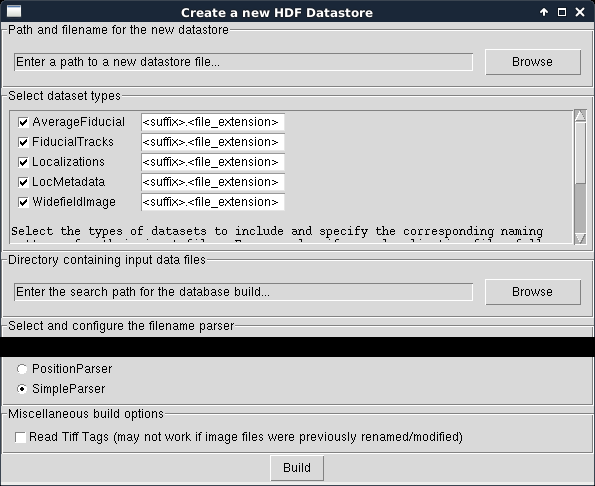
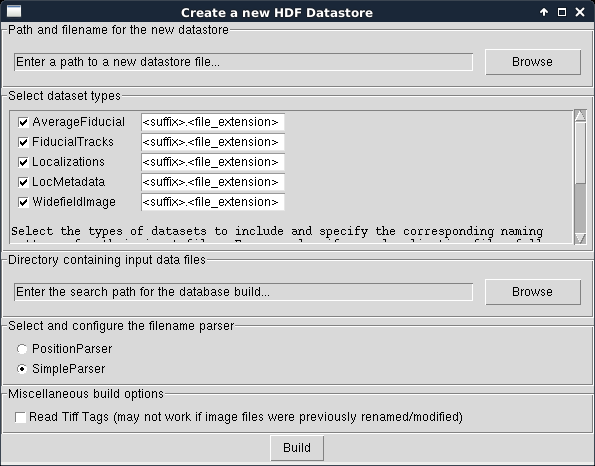
More image touch up on docs.

Changed region(s): [[0.0, 0.0, 1.0, 0.9614], [0.9681, 0.3605, 0.9983, 0.3906]]

diff --git a/docs/quickstart.rst b/docs/quickstart.rst
@@ -159,13 +159,12 @@ acquisition.
 
 The window should now look like this:
 
-.. image:: ../images/gui_screenshot_1.png
+.. image:: ../images/gui_screenshot_2.png
    :align: center
 
 Click the **Build** button and when it completes, you should have a
 nice, new HDF Datastore with your data files structured safely inside
 it.
-
 
 Parsing Files to assign Dataset IDs : Code Example
 ++++++++++++++++++++++++++++++++++++++++++++++++++
